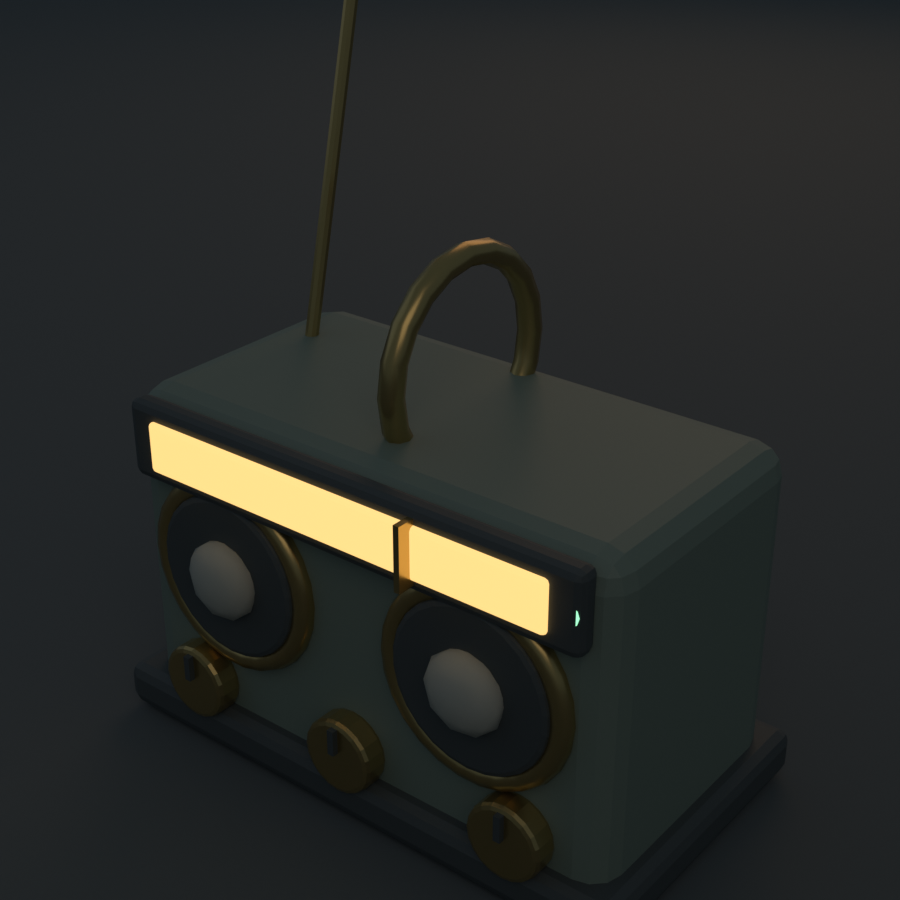
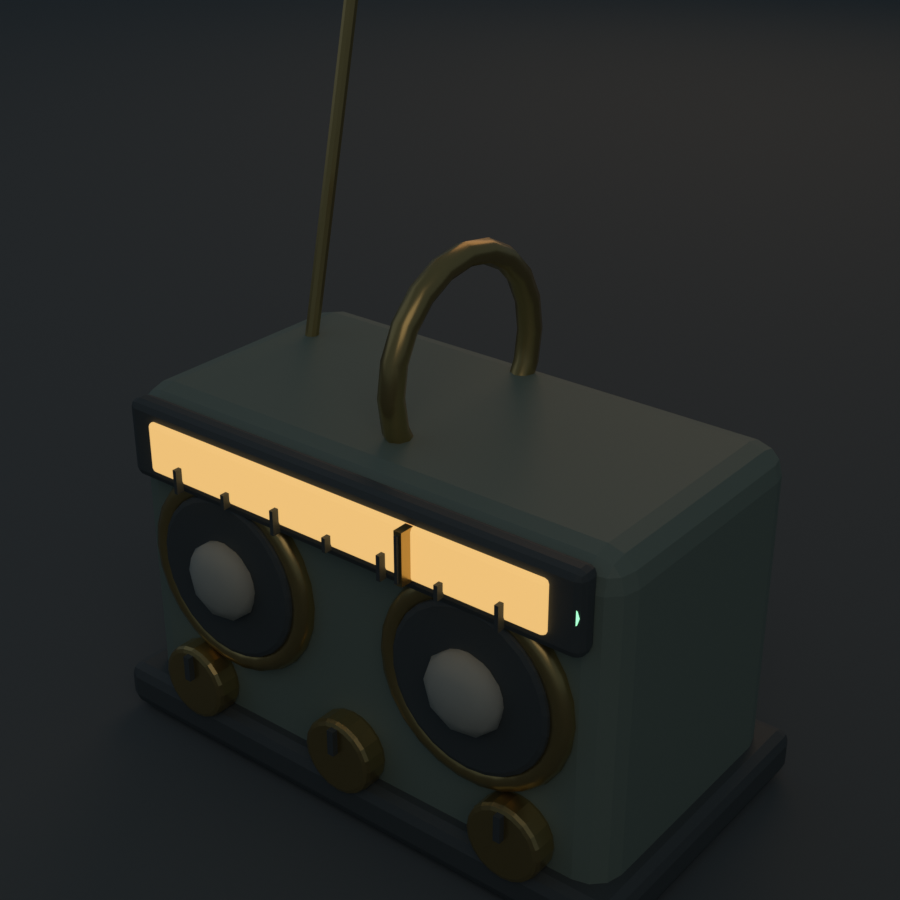
Bunker 0.48: sharpen the radio dial and give the galley counter solid dressing
The 0.47 stations read well at gameplay scale except in two places. The
receiver's lit window was a featureless amber bar and its needle was a wide
brass block that looked like a split; it now carries seven scale ticks and a
thin brass pointer, and the emission drops from 2.2 to 1.5 so the amber keeps
its colour. The galley counter loses the four pale steam spheres that looked
like floating eggs and gains a cutting board with a knife and a folded cloth.

Version 0.48 / code 48.

Changed region(s): [[0.1556, 0.4667, 0.6222, 0.7156]]

diff --git a/tools/blender/props_tech.py b/tools/blender/props_tech.py
@@ -41,7 +41,7 @@ def radio_station() -> None:
     shell = kit.material('radio-shell', (0.20, 0.26, 0.22), roughness=0.55)
     trim = _brass('radio-trim')
     dark = kit.material('radio-dark', STEEL_DARK, roughness=0.6, metallic=0.3)
-    glow = _glow('radio-glass', AMBER, 2.2)
+    glow = _glow('radio-glass', AMBER, 1.5)
     cap = kit.material('radio-cone', (0.46, 0.47, 0.42), roughness=0.65)
 
     parts = [kit.cube('body', (0.54, 0.28, 0.34), (0, 0, 0.19), mat=shell,
@@ -65,8 +65,16 @@ def radio_station() -> None:
                           mat=dark, bevel=0.008))
     parts.append(kit.cube('dial-glass', (0.44, 0.01, 0.05), (0, -0.158, 0.318),
                           mat=glow, bevel=0.004))
-    parts.append(kit.cube('needle', (0.006, 0.02, 0.062), (0.085, -0.166, 0.318),
+    # Frequency scale: without ticks the lit window is just a yellow bar.
+    for index in range(7):
+        x = -0.18 + index * 0.06
+        parts.append(kit.cube('dial-tick', (0.004, 0.008, 0.014 if index % 2 else 0.024),
+                              (x, -0.166, 0.298), mat=dark))
+    # A slim brass pointer over the lit scale; a wide block reads as a break.
+    parts.append(kit.cube('needle', (0.008, 0.020, 0.050), (0.085, -0.164, 0.318),
                           mat=trim))
+    parts.append(kit.cube('needle-core', (0.003, 0.022, 0.044), (0.085, -0.166, 0.318),
+                          mat=dark))
     # Knobs with visible pointer marks.
     for x in (-0.185, 0.0, 0.185):
         parts.append(kit.cylinder('knob', 0.038, 0.028, (x, -0.152, 0.075),
@@ -106,7 +114,7 @@ def food_station() -> None:
     cabinet = kit.material('galley-cabinet', (0.20, 0.24, 0.25), roughness=0.55)
     top = kit.material('galley-top', (0.52, 0.55, 0.53), roughness=0.35, metallic=0.5)
     trim = _brass('galley-trim')
-    steam = kit.material('steam', (0.90, 0.92, 0.90), roughness=0.95,
+    steam = kit.material('steam', (0.72, 0.75, 0.73), roughness=0.95,
                          emission=(0.5, 0.5, 0.5), emission_strength=0.25)
 
     width, depth, height = 1.0, 0.50, 0.88
@@ -178,13 +186,23 @@ def food_station() -> None:
                                   mat=tin, vertices=16, bevel=0.006))
         parts.append(kit.cylinder('tin-label', 0.045, 0.032, (x, y, deck + 0.052),
                                   mat=label, vertices=16))
-    # Stylised steam: three pale puffs, the cheapest way to say "hot food".
-    for dx, dz, radius, lift in ((-0.05, 0.02, 0.072, 0.06),
-                                 (0.06, -0.02, 0.052, 0.16),
-                                 (0.14, 0.04, 0.036, 0.25)):
-        parts.append(kit.sphere('steam', radius,
-                                (dx, dz, pot_bottom + 0.22 + lift),
-                                scale=(1, 1, 0.72), mat=steam))
+    # Heat is told by the glowing burner ring; a chain of pale spheres read as
+    # floating eggs, so the counter gets solid dressing instead: a folded cloth
+    # and a knife on the cutting board.
+    cloth = kit.material('galley-cloth', (0.60, 0.58, 0.50), roughness=0.9)
+    for index in range(2):
+        parts.append(kit.cube('cloth', (0.16, 0.13, 0.014),
+                              (-0.02, -0.115, deck + 0.011 + index * 0.014),
+                              rotation=(0, 0, math.radians(8 * (index + 1))),
+                              mat=cloth, bevel=0.005))
+    board = kit.material('galley-board', (0.40, 0.29, 0.19), roughness=0.8)
+    parts.append(kit.cube('board', (0.24, 0.15, 0.022), (0.36, 0.10, deck + 0.011),
+                          mat=board, bevel=0.006))
+    parts.append(kit.cube('knife-blade', (0.13, 0.024, 0.006), (0.36, 0.10, deck + 0.026),
+                          mat=iron_worn, bevel=0.002))
+    parts.append(kit.cube('knife-grip', (0.07, 0.020, 0.016), (0.45, 0.10, deck + 0.028),
+                          mat=kit.material('knife-grip', (0.16, 0.13, 0.11),
+                                           roughness=0.8), bevel=0.004))
     kit.join('food-station', parts)
 
 

diff --git a/docs/BUILD_STATUS.md b/docs/BUILD_STATUS.md
@@ -1,6 +1,8 @@
 # Проверки и APK
 
-**Текущая версия 0.47:** Version code 47, package `org.bunker.prototype`, подпись совпадает с 0.46. Интерактивные пропсы переделаны в Blender и стилизованы: приёмник на общем столе (латунные ободы динамиков, янтарная шкала, лампа, антенна), кухонный пост (плита со светящимся кольцом, открытый котёл с варевом, половник, миски, жестянки, пар), настенный медшкаф с тремя полками склянок, тёплой лампой и распахнутой дверцей с крестом, консоль с наклонным CRT, бирюзовым экраном со строками развёртки и клавиатурой. В Godot добавлен «чернильный» контур (`BunkerArt.ink_outline`, inverted hull), поэтому станции читаются как кадр из анимации, а не как серые кубы. Превью рендерит сам Blender, игровой кадр — `STATIONSHOT`. [Подробности](ITERATION_47.md).
+**Текущая версия 0.48:** [APK](https://github.com/AlfaGideon/Bunker/releases/download/android-48/Bunker-Posledniy-Shlyuz-48.apk), [Release](https://github.com/AlfaGideon/Bunker/releases/tag/android-48), [подробности](ITERATION_48.md). Version code 48, package `org.bunker.prototype`, подпись совпадает с 0.47. Доработаны две станции из Blender: у приёмника на шкале появились деления и тонкая стрелка, само свечение шкалы приглушено, чтобы янтарь не выбивался в белый; у кухонного поста убран «пар» из бледных шаров (на превью он читался как цепочка яиц), вместо него доска с ножом и тряпка на столешнице. Остальные станции — медшкаф и терминал — не менялись. Физическая установка на BL9000 ещё нужна.
+
+**Историческая версия 0.47:** [APK](https://github.com/AlfaGideon/Bunker/releases/download/android-47/Bunker-Posledniy-Shlyuz-47.apk), [Release](https://github.com/AlfaGideon/Bunker/releases/tag/android-47), [подробности](ITERATION_47.md). Version code 47, package `org.bunker.prototype`, подпись совпадает с 0.46. Интерактивные пропсы переделаны в Blender и стилизованы: приёмник на общем столе (латунные ободы динамиков, янтарная шкала, лампа, антенна), кухонный пост (плита со светящимся кольцом, открытый котёл с варевом, половник, миски, жестянки, пар), настенный медшкаф с тремя полками склянок, тёплой лампой и распахнутой дверцей с крестом, консоль с наклонным CRT, бирюзовым экраном со строками развёртки и клавиатурой. В Godot добавлен «чернильный» контур (`BunkerArt.ink_outline`, inverted hull), поэтому станции читаются как кадр из анимации, а не как серые кубы. Превью рендерит сам Blender, игровой кадр — `STATIONSHOT`. [Подробности](ITERATION_47.md).
 
 **Историческая версия 0.46:** [APK](https://github.com/AlfaGideon/Bunker/releases/download/android-46/Bunker-Posledniy-Shlyuz-46.apk), [Release](https://github.com/AlfaGideon/Bunker/releases/tag/android-46), [подробности](ITERATION_46.md). Version code 46, package `org.bunker.prototype`, подпись совпадает с 0.45. Пропсы лагеря теперь моделятся в Blender по скриптам (`tools/blender`) и выгружаются в `assets/blender/*.glb`: костёр с камнями, золой, поленьями, углями и треногой с котелком, дощатый ящик и настоящий приёмник с решёткой, светящейся шкалой и антенной. В CI пропсы пересобираются модулем `bpy`, а тест лагеря проверяет, что в сцене стоят именно эти модели.
 

diff --git a/docs/ITERATION_48.md b/docs/ITERATION_48.md
@@ -1,0 +1,45 @@
+# Итерация 48 — доработка станций: шкала и кухонный пост
+
+Итерация 0.47 перевела станции бункера на модели из Blender и добавила
+чернильный контур. На превью 900 px нашлись два места, которые на игровом
+расстоянии читались как ошибка, а не как стиль. Здесь они исправлены.
+
+## Приёмник (`radio_station`)
+
+- Шкала больше не «просто жёлтая полоса»: в стекле появились семь делений
+  (короткие и длинные), а по шкале ходит стрелка — тонкая латунная пластина с
+  тёмной сердцевиной. Раньше стрелка была широким латунным блоком и на превью
+  выглядела как разрыв шкалы.
+- Свечение шкалы снижено с 2,2 до 1,5, чтобы янтарь не выбивался в белый и
+  деления оставались видны.
+- Ободы динамиков, латунные ручки с рисками, зелёная лампа включения, антенна и
+  ручка для переноски не менялись — они и так держали силуэт.
+
+## Кухонный пост (`food_station`)
+
+- Убран «пар» из четырёх бледных шаров: на превью это читалось как цепочка
+  плавающих яиц. Вместо него на столешнице появилась доска с ножом и сложенная
+  тряпка, а «горячо» теперь говорит светящееся кольцо горелки.
+- Котёл, половник, две миски с супом, три жестянки с красными этикетками и
+  латунные ручки ящиков остались как были.
+
+## Что осталось без изменений
+
+`medkit` (открытый медшкаф с подсвеченными полками, склянками и красными
+крестами на двери и на боковине) и `terminal` (ЭЛТ с бирюзовым экраном, строками
+развёртки, латунным безелем и клавиатурой) на превью читались правильно.
+
+## Проверки
+
+- Пересборка: `build.py --only radio_station,food_station` в модуле `bpy`
+  (CI делает то же в `Blender asset kit` и проверяет размеры `.glb` и превью).
+- Превью: `docs/previews/blender-radio_station.png`,
+  `docs/previews/blender-food_station.png` (900 px).
+- `test_release_config.py` — версия 0.48, package `org.bunker.prototype`.
+- Godot-тесты, включая `tools/test_stations.gd`, идут в общем прогоне CI.
+
+## Ограничения
+
+- Пар убран совсем: если понадобится, его надо делать полупрозрачным
+  материалом (glTF BLEND), а не геометрией.
+- Стрелка шкалы статична, ручки не вращаются.

diff --git a/tools/blender/README.md b/tools/blender/README.md
@@ -48,8 +48,8 @@ python3 -m venv .venv-blender
 | `campfire` | `assets/blender/campfire.glb` | костёр в главном меню: кольцо камней, обгоревшие поленья, угли, тренога с котелком |
 | `crate` | `assets/blender/crate.glb` | ящик под приёмником |
 | `radio` | `assets/blender/radio.glb` | приёмник у костра: решётка, светящаяся шкала, ручки, антенна, ручка для переноски |
-| `radio_station` | `assets/blender/radio_station.glb` | приёмник на общем столе в зале и у костра в меню: латунные ободы динамиков, янтарная шкала, лампа, антенна |
-| `food_station` | `assets/blender/food_station.glb` | кухонный пост в зале и на кухне: тумба, плита со светящимся кольцом, открытый котёл, половник, миски, жестянки, пар |
+| `radio_station` | `assets/blender/radio_station.glb` | приёмник на общем столе в зале: латунные ободы динамиков, янтарная шкала с делениями и стрелкой, зелёная лампа, антенна |
+| `food_station` | `assets/blender/food_station.glb` | кухонный пост в зале и на кухне: тумба, плита со светящимся кольцом, открытый котёл, половник, миски, жестянки, доска с ножом |
 | `medkit` | `assets/blender/medkit.glb` | настенный шкаф в медотсеке: три полки со склянками, тёплая лампа, дверца с крестом |
 | `terminal` | `assets/blender/terminal.glb` | консоль в зале и в мастерской: наклонный CRT, бирюзовый экран со строками, клавиатура, решётки |
 
